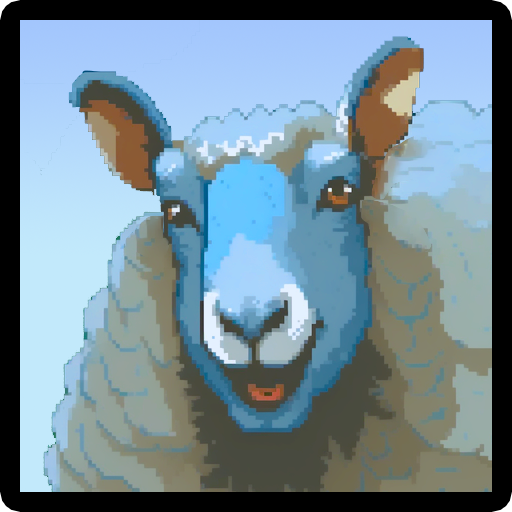
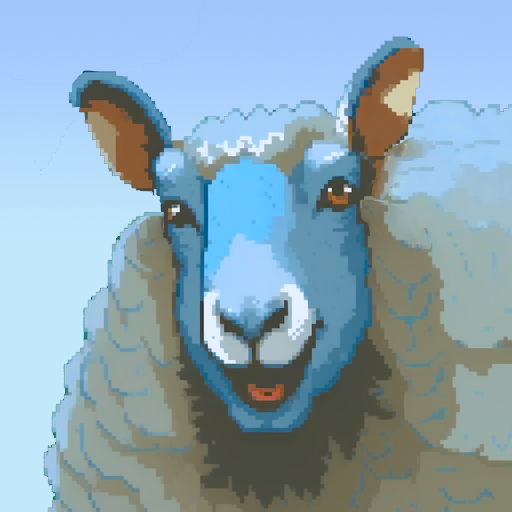
New sheep badge with wavy colors

Changed region(s): [[0.0, 0.0, 1.0, 1.0]]

diff --git a/JS/player.js b/JS/player.js
@@ -85,13 +85,23 @@ function setPlayer() {
 
 function displayHappyFace() {
     const happyBadge = add([
-        sprite("happy_sheep"),
-        pos(innerWidth + 205, innerHeight/2 - 40),
-        anchor('botright'),
-        scale(.4),
+        pos(innerWidth, innerHeight/2 - 200),
+        rect(214, 214),
         z(100),
         outline(10),
+        'happySheep',
     ]);
+
+    happyBadge.add([
+        sprite("happy_sheep"),
+        pos(5,5),
+        scale(.4),
+        z(101),
+    ]);
+
+    onUpdate("happySheep", (obj) => {
+        obj.outline.color = hsl2rgb(wave(0.4, 0.55, time() * 10), 0.8, 0.5)
+    })
 
     tween(happyBadge.pos.x, happyBadge.pos.x - 205 - 40, 0.5, (p) => happyBadge.pos.x = p, easings.easeOutBounce);
 
